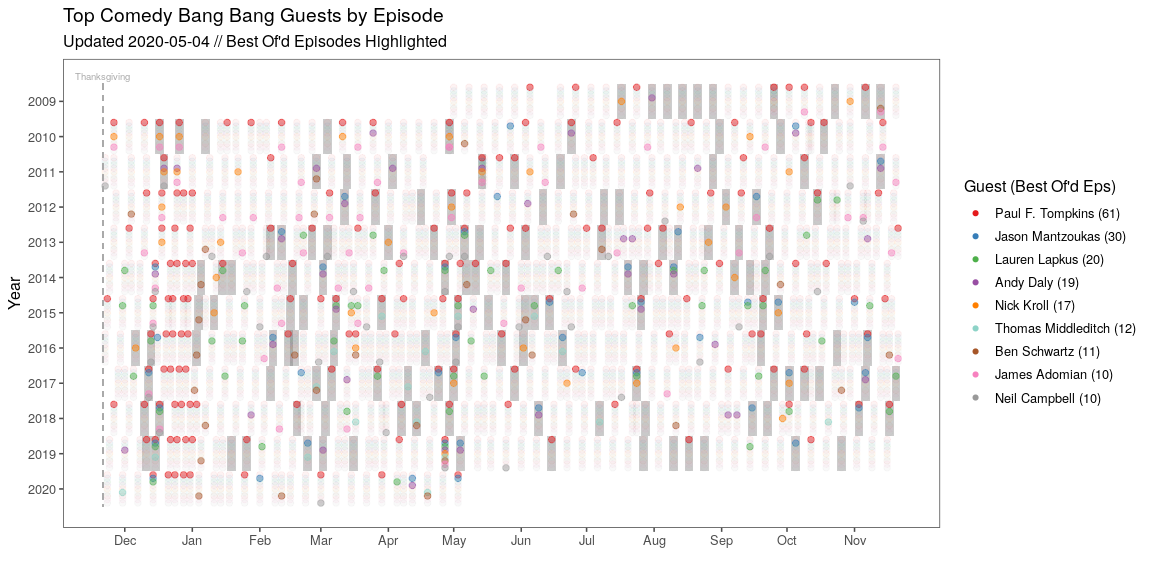
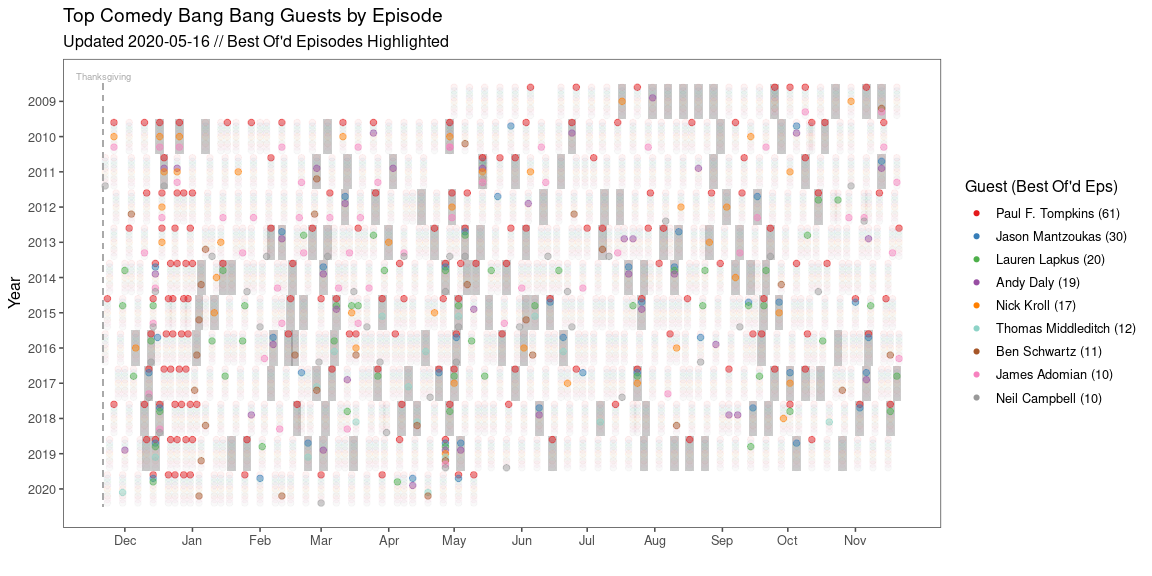
Updated README for cross compatibility with other project

diff --git a/README.md b/README.md
@@ -1,30 +1,22 @@
-CBB Best Ofs Episodes
-================
-04-May-2020
-
-## Comedy Bang Bang Appearances
+Comedy Bang Bang Appearances
+----------------------------
 
 Comedy Bang Bang is an alt-comedy improv podcast published at least
 weekly since 2009. Each episode features one or more guests, who may be
-playing themselves or an improvised character. As of 2020-05-04, there
-have been 698 mainline episodes with 492 unique guests.
+playing themselves or an improvised character. As of 2020-05-16, there
+have been 699 mainline episodes with 492 unique guests.
 
 At the end of the year, listeners vote on the best episodes of the year
 (Thanksgiving-to-Thanksgiving), which are compiled in year-end Best Of
 episodes that are published over the Christmas-New Year break. Paul F.
 Tompkins, the most frequent CBB guest, typically cohosts these shows
-with the show’s host, Scott Aukerman.
+with the show's host, Scott Aukerman.
 
+For more info, see the Github repo
+[colindouglas/podcasts](https://www.github.com/colindouglas/podcasts/).
 I scraped the data directly from the Earwolf website using the
 `scrape-earwolf.R`, and then created the image via
-`cbb-bestof-figure.R`. The top 9 most frequently Best Of’d guests are
+`cbb-bestof-figure.R`. The top 9 most frequently Best Of'd guests are
 highlighted by color, and the Best Of episodes are shaded grey.
 
-![](images/cbb-bestof-plot-1.png)<!-- -->
-
-## Shiny App
-
-Sometimes I use this dataset to experiment with Shiny. The dataset
-updates every Friday. You can find a link to the Shiny app at:
-
-<https://colindouglas.shinyapps.io/podcasts/>
+![](images/cbb-bestof-plot-1.png)
